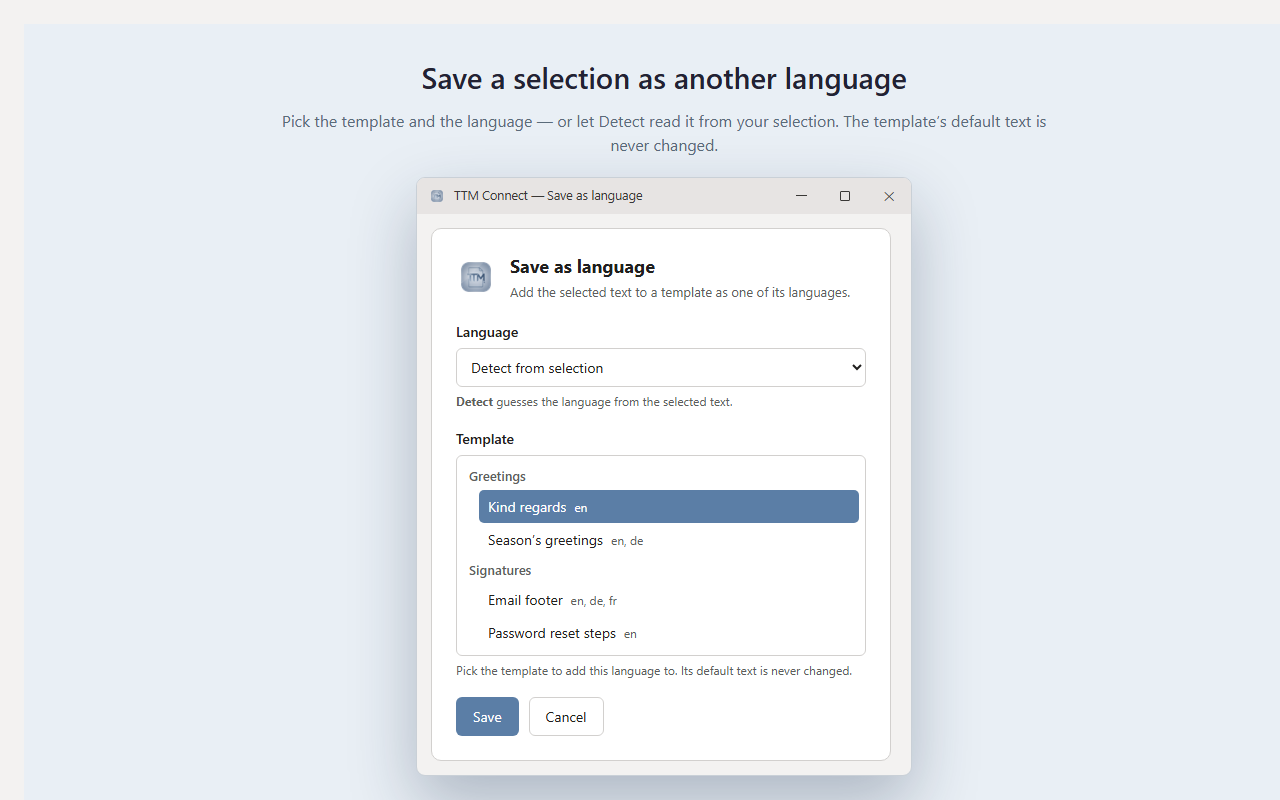
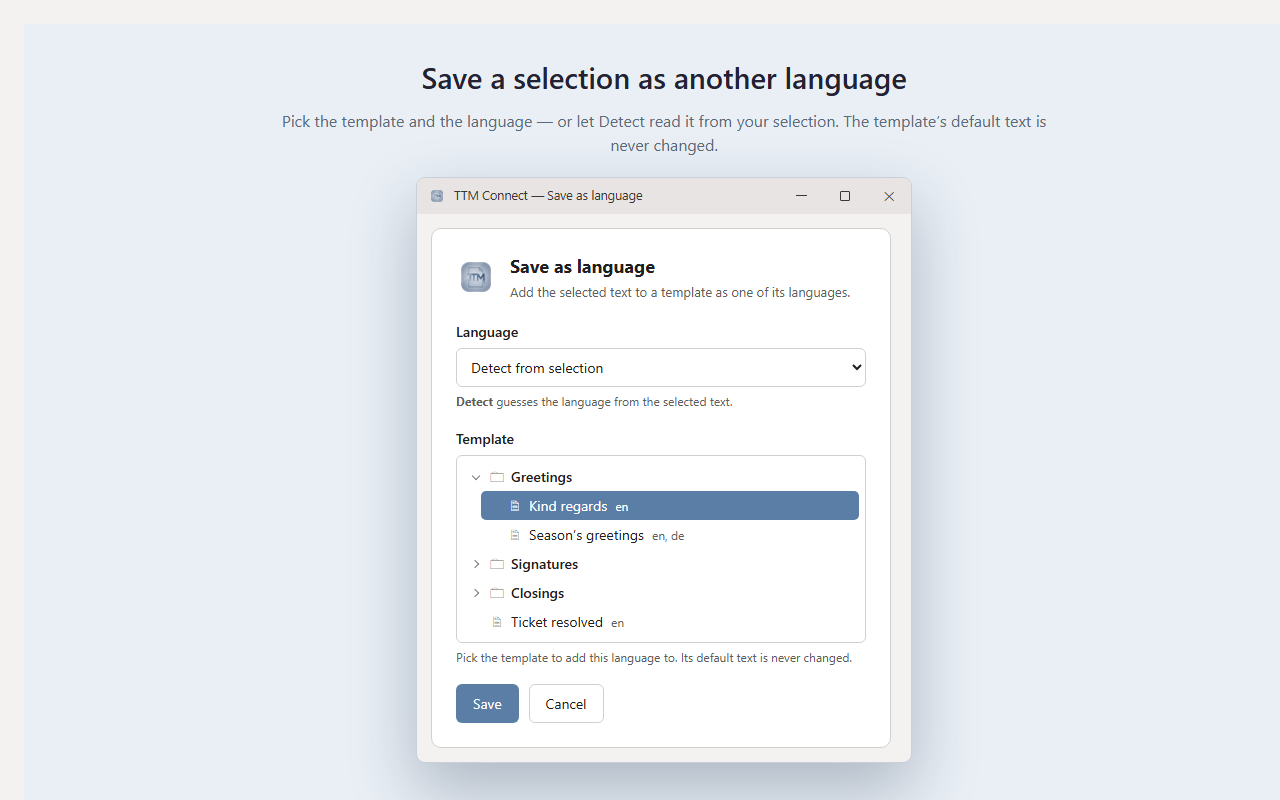
website: picker tree in manual, refreshed 04-language shot

Changed region(s): [[0.3125, 0.5938, 0.7188, 0.9688]]

diff --git a/store-assets/screenshots/04-language.html b/store-assets/screenshots/04-language.html
@@ -33,8 +33,6 @@
   .win .doc { padding: 14px; }
   .win .card { margin: 0; box-shadow: none; }
   .win .tree { max-height: 220px; }
-  .tree .tpl.sel { background: var(--accent); color: var(--accent-fg); }
-  .tree .tpl.sel .langs { color: var(--accent-fg); }
 </style>
 </head>
 <body>
@@ -75,21 +73,37 @@
 
           <div class="field">
             <span>Template</span>
-            <div class="tree" role="listbox" aria-label="Templates">
-              <ul>
-                <li>
-                  <div class="folder">Greetings</div>
-                  <ul>
-                    <li><button type="button" class="tpl sel">Kind regards<span class="langs">en</span></button></li>
-                    <li><button type="button" class="tpl">Season’s greetings<span class="langs">en, de</span></button></li>
+            <div class="tree" role="tree" aria-label="Templates">
+              <ul role="none">
+                <li role="treeitem" class="folder" aria-expanded="true">
+                  <div class="row"><span class="twisty"></span><span class="ico">🗀</span><span class="name">Greetings</span></div>
+                  <ul role="group">
+                    <li role="treeitem" class="tpl" aria-selected="true">
+                      <div class="row"><span class="twisty"></span><span class="ico">🗎</span><span class="name">Kind regards</span><span class="langs">en</span></div>
+                    </li>
+                    <li role="treeitem" class="tpl" aria-selected="false">
+                      <div class="row"><span class="twisty"></span><span class="ico">🗎</span><span class="name">Season’s greetings</span><span class="langs">en, de</span></div>
+                    </li>
                   </ul>
                 </li>
-                <li>
-                  <div class="folder">Signatures</div>
-                  <ul>
-                    <li><button type="button" class="tpl">Email footer<span class="langs">en, de, fr</span></button></li>
-                    <li><button type="button" class="tpl">Password reset steps<span class="langs">en</span></button></li>
+                <li role="treeitem" class="folder" aria-expanded="false">
+                  <div class="row"><span class="twisty"></span><span class="ico">🗀</span><span class="name">Signatures</span></div>
+                  <ul role="group">
+                    <li role="treeitem" class="tpl" aria-selected="false">
+                      <div class="row"><span class="twisty"></span><span class="ico">🗎</span><span class="name">Email footer</span><span class="langs">en, de, fr</span></div>
+                    </li>
                   </ul>
+                </li>
+                <li role="treeitem" class="folder" aria-expanded="false">
+                  <div class="row"><span class="twisty"></span><span class="ico">🗀</span><span class="name">Closings</span></div>
+                  <ul role="group">
+                    <li role="treeitem" class="tpl" aria-selected="false">
+                      <div class="row"><span class="twisty"></span><span class="ico">🗎</span><span class="name">Best wishes</span><span class="langs">en</span></div>
+                    </li>
+                  </ul>
+                </li>
+                <li role="treeitem" class="tpl" aria-selected="false">
+                  <div class="row"><span class="twisty"></span><span class="ico">🗎</span><span class="name">Ticket resolved</span><span class="langs">en</span></div>
                 </li>
               </ul>
             </div>

diff --git a/website/pages/manual.md b/website/pages/manual.md
@@ -78,7 +78,7 @@ To add a translation to a template you already have — rather than creating a s
 [![The Save-as-language picker: choose a language and a template](images/04-language.png)](images/04-language.png)
 
 1. **Language** — choose the language the selection is in, or leave it on **Detect from selection** to have it guessed from the text.
-2. **Template** — pick the template to add the language to. The hint next to each name lists the languages it already has.
+2. **Template** — pick the template to add the language to. Folders expand and collapse with a click or the arrow keys; the hint next to each name lists the languages it already has.
 3. **Save**.
 
 The selection is saved onto that template as the chosen language — added if it's new, or replacing that language's text if it already has it. The template's **default** language is never changed from the browser; edit that in the app. If the app can't make the change it tells you why (for example the template is read-only, has unsaved edits open in the app, or you picked its default language). This needs **API protocol 3** (TextTemplateManager 2.8+).
